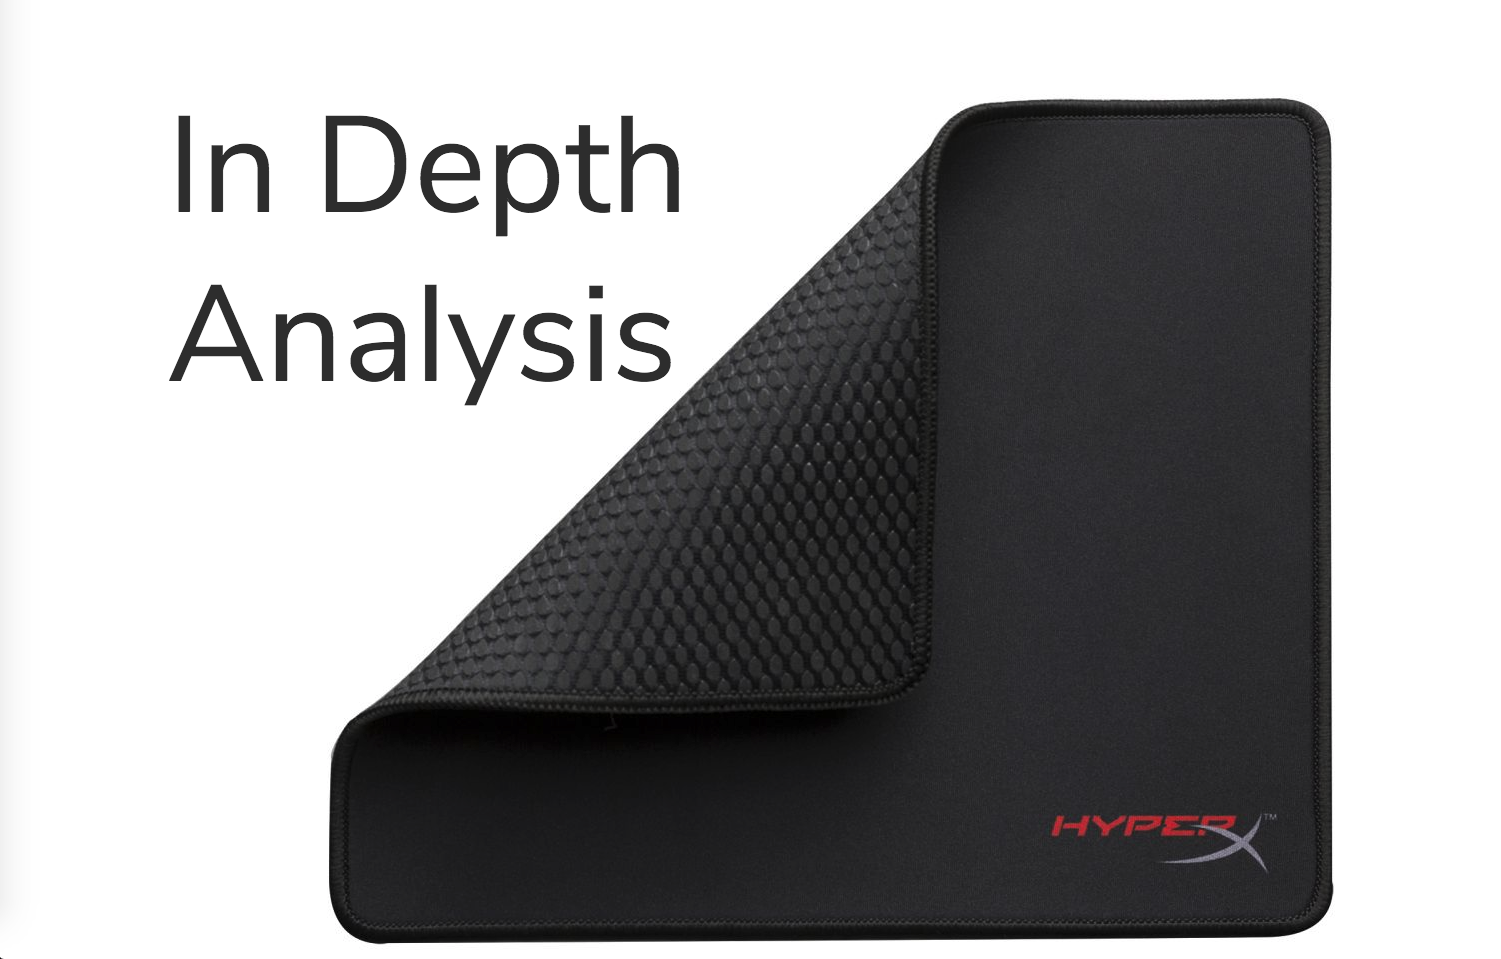
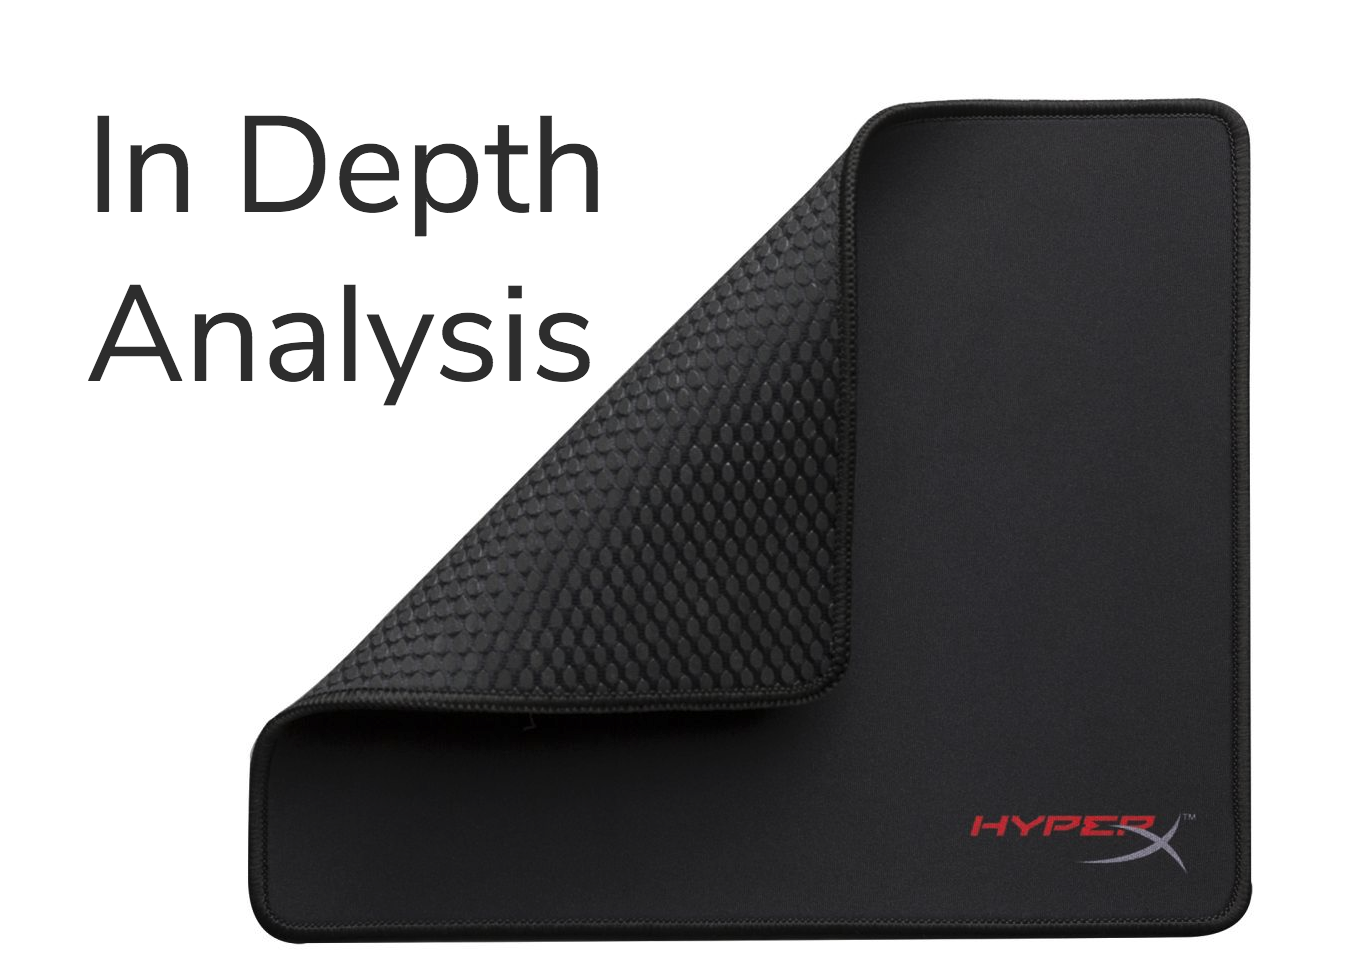
first section complete

diff --git a/index.html b/index.html
@@ -28,11 +28,12 @@
       </div>
       <div class="col-md-4 col-md-offset-1 text-center">
         <img class="img" src="images/example.png">
-        <i><p class="caption">One of the examples that shows the result of tracking mouse movements in the Real-Time Strategy game, Starcraft II.</p></i>
+        <i><p class="caption">One of the examples that shows the result of tracking mouse movements in the real-time strategy game, Starcraft II.</p></i>
       </div>
     </div>
 
-    <div class="col-md-12 pad">
+    <div class="col-md-10 col-md-offset-1">
+      <img class="pad" src="images/mousepad-title.png">
       <div class="col-md-5 col-md-offset-1">
         <p class="analysis">In Depth<br>Analysis</p>
       </div>

diff --git a/css/master.css b/css/master.css
@@ -44,10 +44,7 @@ body {
 }
 
 .pad {
-  background-image: url('../images/mousepad-title.png');
-  background-repeat: no-repeat;
-  background-size: contain;
-  min-height: 1000px;
+  width: 100%;
 }
 
 .analysis {
